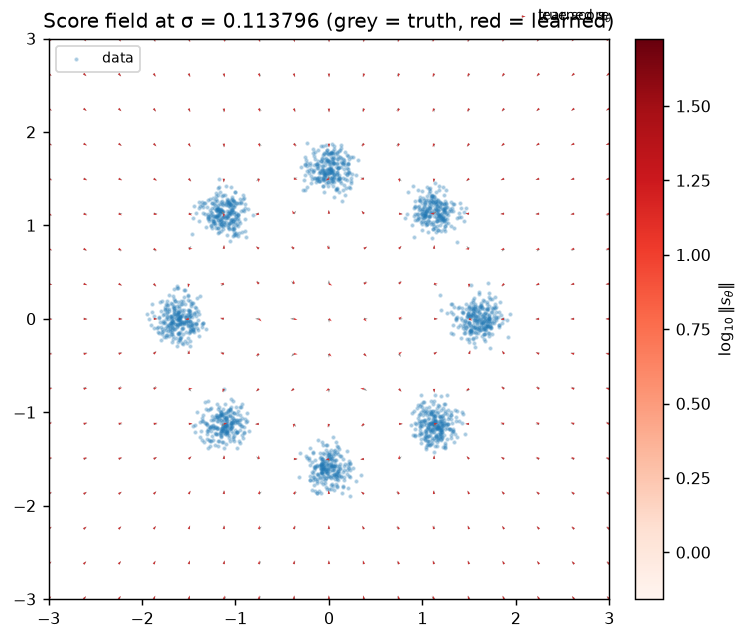
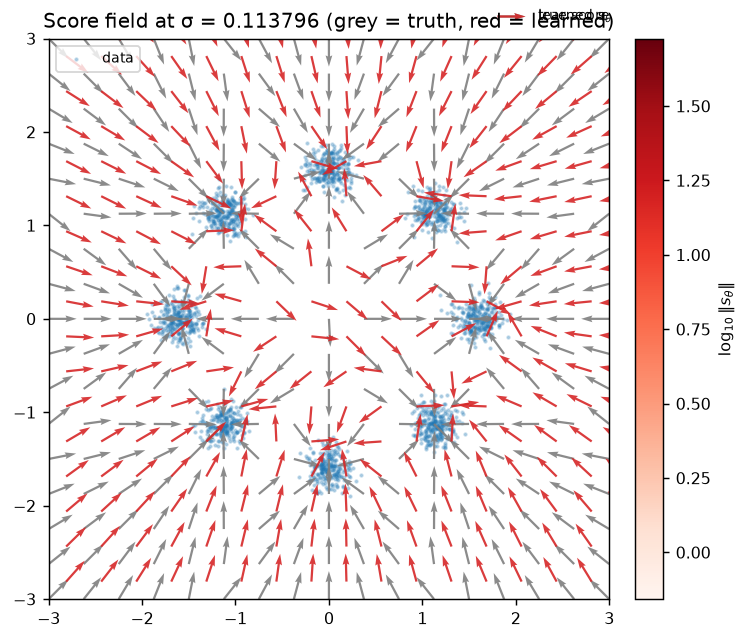
Lesson 02 viz: offset learned arrows half a cell, scale arrows to grid spacing
Red (learned) arrows were drawn on the same base points as the grey
(true) ones and hid them; offset the learned grid by half a cell and
size arrows relative to grid spacing (0.8 * cell) so the field stays
readable at any density. Regenerated lab2_score_field.png and
lab2_trajectories.png.

diff --git a/lessons/02-score-matching/lab/src/score_lab/viz.py b/lessons/02-score-matching/lab/src/score_lab/viz.py
@@ -75,14 +75,22 @@ def plot_score_field(
     s_true = true_fn(xy).detach().cpu().numpy()
     s_learned = learned_fn(xy).detach().cpu().numpy()
 
+    # Arrow sizing relative to the grid: an arrow spans ~80% of a cell, so the
+    # field stays readable at any grid density (a fixed scale gave arrows
+    # either invisible or overlapping). The learned grid is offset by half a
+    # cell — otherwise the red arrows sit exactly on top of the grey ones and
+    # hide them (both are unit-normalized).
+    spacing = 2 * lim / (n_grid - 1)
+    scale_key = 1.0 / (0.8 * spacing)      # unit arrow ≈ 0.8 · cell
+    xy_learned = xy + spacing / 2
+
     fig, ax = plt.subplots(figsize=(6.4, 5.6))
     if data is not None:
         d = data.cpu().numpy()
         ax.scatter(d[:, 0], d[:, 1], s=2, c=C_DATA, alpha=0.25, label="data")
 
-    scale_key = 25.0  # arrows per axis unit — keeps unit arrows readable
-    _quiver(ax, xy.numpy(), s_true, C_TRUE, f"true score", scale_key)
-    q = _quiver(ax, xy.numpy(), s_learned, C_LEARNED, "learned $s_θ$", scale_key)
+    _quiver(ax, xy.numpy(), s_true, C_TRUE, "true score", scale_key)
+    q = _quiver(ax, xy_learned.numpy(), s_learned, C_LEARNED, "learned $s_θ$", scale_key)
 
     # Colorbar on the learned field's log-magnitude.
     norm = np.linalg.norm(s_learned, axis=1)
@@ -153,9 +161,10 @@ def plot_trajectories(
         xy = _grid(lim, n_grid)
         s = field_fn(xy).detach().cpu().numpy()
         norm = np.linalg.norm(s, axis=1, keepdims=True).clip(1e-12)
+        spacing = 2 * lim / (n_grid - 1)
         ax.quiver(xy[:, 0], xy[:, 1], (s / norm)[:, 0], (s / norm)[:, 1],
-                  color=C_TRUE, scale=30, scale_units="xy", width=0.003,
-                  alpha=0.55, angles="xy")
+                  color=C_TRUE, scale=1.0 / (0.6 * spacing), scale_units="xy",
+                  width=0.003, alpha=0.55, angles="xy")
 
     n_traj = trajs_np.shape[1]
     cmap = plt.get_cmap("Blues")
